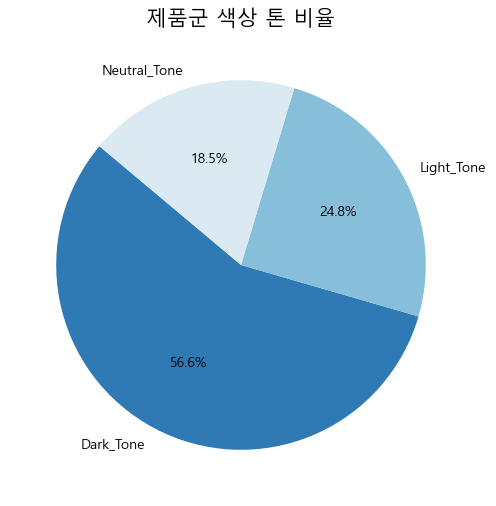
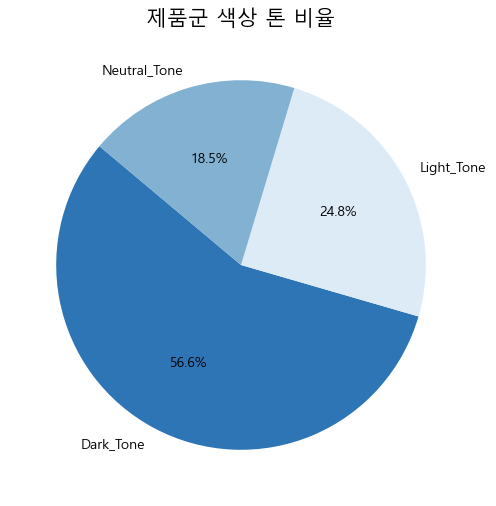
(SOL) code update

Changed region(s): [[0.1815, 0.1482, 0.877, 0.6225]]

diff --git a/SOL_analysis/jinjja_jinjja_final.md b/SOL_analysis/jinjja_jinjja_final.md
@@ -422,7 +422,7 @@ plt.tight_layout()
 plt.show()
 ```
 
-    C:\Users\user\AppData\Local\Temp\ipykernel_12152\822583366.py:11: FutureWarning: 
+    C:\Users\user\AppData\Local\Temp\ipykernel_4428\822583366.py:11: FutureWarning: 
     
     Passing `palette` without assigning `hue` is deprecated and will be removed in v0.14.0. Assign the `x` variable to `hue` and set `legend=False` for the same effect.
     
@@ -2228,6 +2228,7 @@ plt.show()
 ```python
 # 제품군 색상 톤 비율
 tone_counts = df_final['color_tone'].value_counts()
+my_tones = ['#2E75B6', '#DDEBF7', '#82B1D1']
 
 plt.figure(figsize=(6, 6))
 plt.pie(
@@ -2235,7 +2236,8 @@ plt.pie(
     labels=tone_counts.index, 
     autopct='%1.1f%%',
     startangle=140,
-    colors=sns.color_palette('RdBu_r'))
+    colors = my_tones,
+)
 plt.title('제품군 색상 톤 비율', fontsize=15)
 plt.show()
 ```

diff --git a/SOL_analysis/00_data_check.md b/SOL_analysis/00_data_check.md
@@ -260,6 +260,19 @@ print(articles.isnull().sum())
 
 
 ```python
+print(transactions.isnull().sum())
+```
+
+    t_dat               0
+    customer_id         0
+    article_id          0
+    price               0
+    sales_channel_id    0
+    dtype: int64
+    
+
+
+```python
 #age를 그룹화하는 게 보기 좋음 => mapping 
 #맞겠지? 연령대니까 이게 맞을거야 10대 20대
 #아 이상치 120이나 0살 이상치 확인
@@ -411,7 +424,7 @@ plt.show()
 
 
     
-![png](00_data_check_files/00_data_check_10_0.png)
+![png](00_data_check_files/00_data_check_11_0.png)
     
 
 
